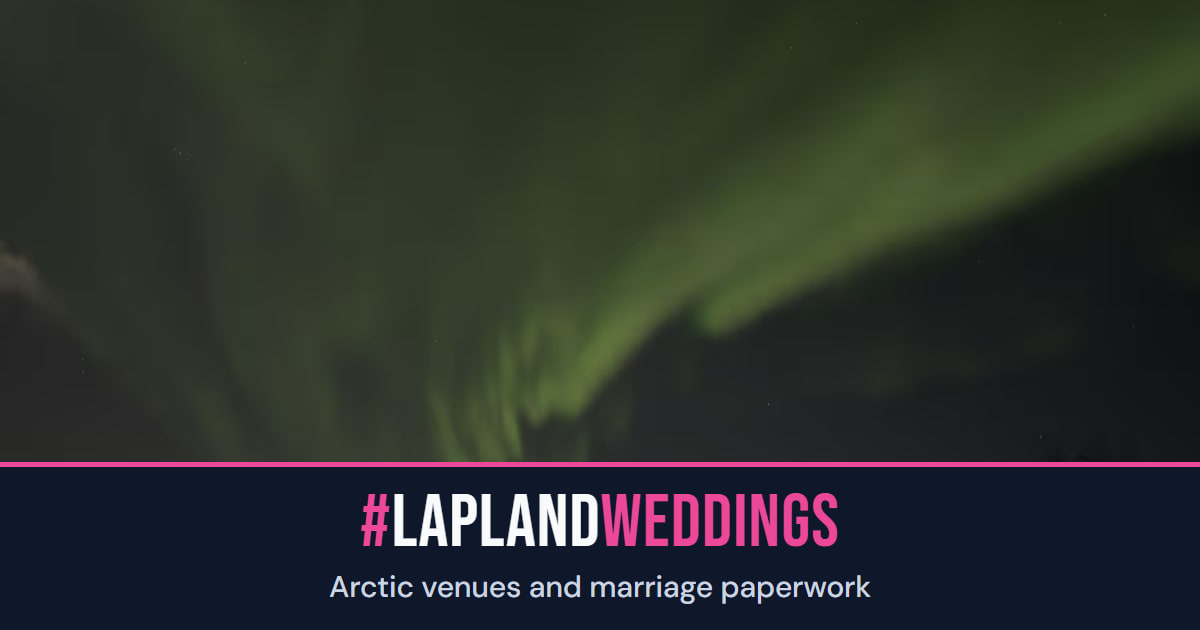
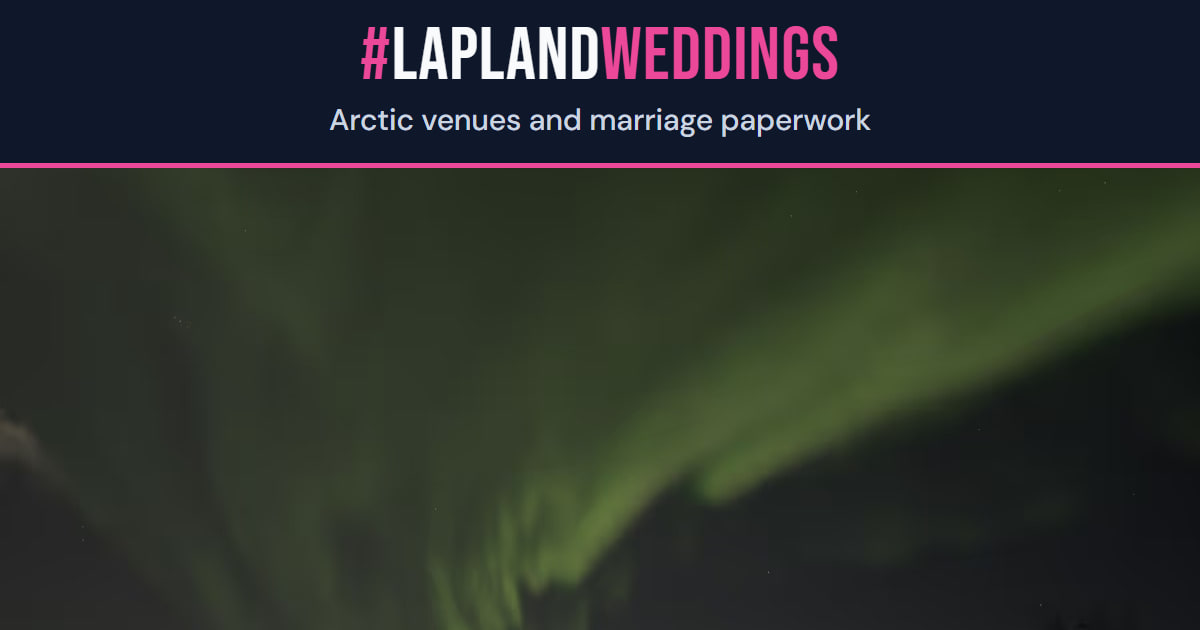
Jakokortit: sanamerkki ja rivi kortin yläreunaan (X:n otsikkolaatta peitti ne alareunassa)
X piirtää linkkikortin kuvan päälle mustan otsikkolaatan vasempaan alakulmaan (mitattu
12.11.2026: 84-96 % kortin korkeudesta). Sanamerkki ja rivi olivat kohdassa 78-96 %, joten
ne jäivät laatan alle jokaisessa X-jaossa. Nyt palkki on ylhäällä (muste y 26-136 / 630) ja
valokuva sen alla; valokuvan rajaus on sama kuin ennen. Vesa hyväksyi vertailukuvasta 12.11.

Sivustokortti ja sivukortit, kesä ja talvi. Lähdekuvat ja rivit ennallaan. Osoitteen ?v=
vaihtuu itsestään (kortin sisällön tiiviste), joten somepalvelut hakevat uuden kuvan.
Generaattori: lv-ops scripts/og/card.mjs 31360d74.

diff --git a/index.html b/index.html
@@ -244,16 +244,16 @@
     </script>
 
       <!-- Open Graph image (1200×630 JPEG) -->
-    <meta property="og:image" content="https://laplandweddings.online/og.jpg?v=d20d8a53" />
-    <meta property="og:image:secure_url" content="https://laplandweddings.online/og.jpg?v=d20d8a53" />
+    <meta property="og:image" content="https://laplandweddings.online/og.jpg?v=2fe91594" />
+    <meta property="og:image:secure_url" content="https://laplandweddings.online/og.jpg?v=2fe91594" />
     <meta property="og:image:type" content="image/jpeg" />
     <meta property="og:image:width" content="1200" />
     <meta property="og:image:height" content="630" />
-    <meta property="og:image:alt" content="The midnight sun over Lake Inari around midsummer. #LAPLANDWEDDINGS" />
+    <meta property="og:image:alt" content="Northern lights over dark, snowy fells on a winter night. #LAPLANDWEDDINGS" />
     <!-- Twitter card -->
     <meta name="twitter:card" content="summary_large_image" />
-    <meta name="twitter:image" content="https://laplandweddings.online/og.jpg?v=d20d8a53" />
-    <meta name="twitter:image:alt" content="The midnight sun over Lake Inari around midsummer. #LAPLANDWEDDINGS" />
+    <meta name="twitter:image" content="https://laplandweddings.online/og.jpg?v=2fe91594" />
+    <meta name="twitter:image:alt" content="Northern lights over dark, snowy fells on a winter night. #LAPLANDWEDDINGS" />
       <!-- Favicon stack (LV ecosystem unified design) -->
     <link rel="icon" href="/favicon.svg?v=20260626b" type="image/svg+xml" />
     <link rel="alternate icon" href="/favicon.ico?v=20260626b" sizes="32x32" type="image/png" />

diff --git a/src/components/SEO.tsx b/src/components/SEO.tsx
@@ -16,7 +16,7 @@ interface SEOProps {
 }
 
 const SITE = 'https://laplandweddings.online';
-const DEFAULT_IMAGE = 'https://laplandweddings.online/og.jpg?v=d20d8a53'; // was a hotlink to a third-party photographer's site (19.9.2026)
+const DEFAULT_IMAGE = 'https://laplandweddings.online/og.jpg?v=2fe91594'; // was a hotlink to a third-party photographer's site (19.9.2026)
 
 const SUPPORTED: Lang[] = ['en', 'fi', 'de', 'ja', 'es', 'pt-BR', 'zh-CN', 'ko', 'fr', 'it', 'nl', 'sv'];
 const URL_PREFIX_OF: Record<Lang, string> = {
